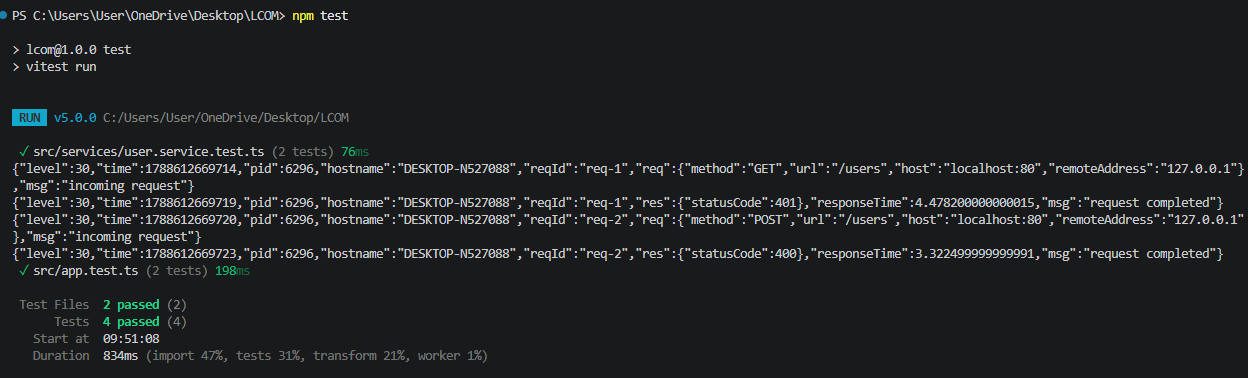
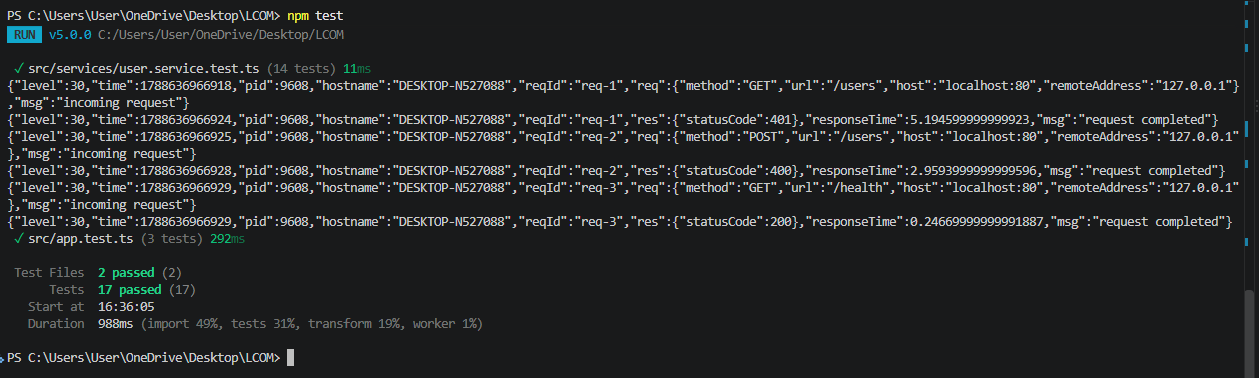
feat: health check, email case insensitive; teste atualizados

Changed region(s): [[0.0, 0.0291, 1.0, 0.9603], [0.9688, 0.7566, 1.0, 1.0]]

diff --git a/src/services/user.service.test.ts b/src/services/user.service.test.ts
@@ -1,4 +1,5 @@
 import { describe, it, expect, vi, beforeEach } from 'vitest';
+import bcrypt from 'bcrypt';
 import { userService } from './user.service';
 import { userRepository } from '../repositories/user.repository';
 
@@ -6,11 +7,10 @@ vi.mock('../repositories/user.repository');
 vi.mock('../repositories/audit.repository', () => ({
   auditRepository: { log: vi.fn() },
 }));
+vi.mock('bcrypt');
 
 describe('userService.create', () => {
-  beforeEach(() => {
-    vi.clearAllMocks();
-  });
+  beforeEach(() => vi.clearAllMocks());
 
   it('lanca erro 409 se o e-mail ja existe', async () => {
     (userRepository.findByEmail as any).mockResolvedValue({ id: '1', email: 'joao@teste.com' });
@@ -22,11 +22,152 @@ describe('userService.create', () => {
 
   it('cria usuario com sucesso quando e-mail nao existe', async () => {
     (userRepository.findByEmail as any).mockResolvedValue(null);
+    (bcrypt.hash as any).mockResolvedValue('hash-fake');
     (userRepository.create as any).mockResolvedValue({ id: '1', name: 'Joao', role: 'USER' });
 
     const user = await userService.create({ name: 'Joao', email: 'joao@teste.com', password: '123456' });
 
     expect(user).toHaveProperty('id');
     expect(userRepository.create).toHaveBeenCalled();
+  });
+
+  it('normaliza o e-mail para minusculo antes de checar duplicidade', async () => {
+    (userRepository.findByEmail as any).mockResolvedValue(null);
+    (bcrypt.hash as any).mockResolvedValue('hash-fake');
+    (userRepository.create as any).mockResolvedValue({ id: '1' });
+
+    await userService.create({ name: 'Joao', email: 'JOAO@TESTE.COM', password: '123456' });
+
+    expect(userRepository.findByEmail).toHaveBeenCalledWith('joao@teste.com');
+    expect(userRepository.create).toHaveBeenCalledWith(
+      expect.objectContaining({ email: 'joao@teste.com' })
+    );
+  });
+});
+
+describe('userService.update', () => {
+  beforeEach(() => vi.clearAllMocks());
+
+  const existingUser = { id: 'user-1', email: 'joao@teste.com', passwordHash: 'hash-antigo', role: 'USER' };
+
+  it('permite o proprio usuario editar seus dados', async () => {
+    (userRepository.findById as any).mockResolvedValue(existingUser);
+    (userRepository.update as any).mockResolvedValue({ ...existingUser, name: 'Novo Nome' });
+
+    const result = await userService.update('user-1', { name: 'Novo Nome' }, { sub: 'user-1', role: 'USER' });
+
+    expect(result.name).toBe('Novo Nome');
+  });
+
+  it('bloqueia usuario comum editando outro usuario (403)', async () => {
+    (userRepository.findById as any).mockResolvedValue(existingUser);
+
+    await expect(
+      userService.update('user-1', { name: 'Hack' }, { sub: 'outro-usuario', role: 'USER' })
+    ).rejects.toMatchObject({ statusCode: 403 });
+  });
+
+  it('permite admin editar outro usuario', async () => {
+    (userRepository.findById as any).mockResolvedValue(existingUser);
+    (userRepository.update as any).mockResolvedValue({ ...existingUser, name: 'Editado pelo admin' });
+
+    const result = await userService.update(
+      'user-1',
+      { name: 'Editado pelo admin' },
+      { sub: 'admin-1', role: 'ADMIN' }
+    );
+
+    expect(result.name).toBe('Editado pelo admin');
+  });
+
+  it('exige senha atual ao trocar a propria senha', async () => {
+    (userRepository.findById as any).mockResolvedValue(existingUser);
+
+    await expect(
+      userService.update('user-1', { password: 'novaSenha123' }, { sub: 'user-1', role: 'USER' })
+    ).rejects.toMatchObject({ statusCode: 400 });
+  });
+
+  it('rejeita senha atual incorreta (401)', async () => {
+    (userRepository.findById as any).mockResolvedValue(existingUser);
+    (bcrypt.compare as any).mockResolvedValue(false);
+
+    await expect(
+      userService.update(
+        'user-1',
+        { password: 'novaSenha123', currentPassword: 'senhaErrada' },
+        { sub: 'user-1', role: 'USER' }
+      )
+    ).rejects.toMatchObject({ statusCode: 401 });
+  });
+
+  it('troca a propria senha com sucesso quando a senha atual bate', async () => {
+    (userRepository.findById as any).mockResolvedValue(existingUser);
+    (bcrypt.compare as any).mockResolvedValue(true);
+    (bcrypt.hash as any).mockResolvedValue('hash-novo');
+    (userRepository.update as any).mockResolvedValue({ ...existingUser, passwordHash: 'hash-novo' });
+
+    await userService.update(
+      'user-1',
+      { password: 'novaSenha123', currentPassword: 'senhaAntiga' },
+      { sub: 'user-1', role: 'USER' }
+    );
+
+    expect(userRepository.update).toHaveBeenCalledWith(
+      'user-1',
+      expect.objectContaining({ passwordHash: 'hash-novo' })
+    );
+  });
+
+  it('admin pode resetar senha de outro usuario sem senha atual', async () => {
+    (userRepository.findById as any).mockResolvedValue(existingUser);
+    (bcrypt.hash as any).mockResolvedValue('hash-resetado');
+    (userRepository.update as any).mockResolvedValue({ ...existingUser, passwordHash: 'hash-resetado' });
+
+    await userService.update('user-1', { password: 'senhaResetada123' }, { sub: 'admin-1', role: 'ADMIN' });
+
+    expect(bcrypt.compare).not.toHaveBeenCalled();
+    expect(userRepository.update).toHaveBeenCalledWith(
+      'user-1',
+      expect.objectContaining({ passwordHash: 'hash-resetado' })
+    );
+  });
+});
+
+describe('userService.updateRole', () => {
+  beforeEach(() => vi.clearAllMocks());
+
+  it('bloqueia rebaixar o admin protegido', async () => {
+    (userRepository.findById as any).mockResolvedValue({ id: 'admin-1', email: 'admin@mocab.com', role: 'ADMIN' });
+
+    await expect(
+      userService.updateRole('admin-1', 'USER' as any, 'outro-admin')
+    ).rejects.toMatchObject({ statusCode: 403 });
+  });
+
+  it('permite mudar role de um usuario comum', async () => {
+    (userRepository.findById as any).mockResolvedValue({ id: 'user-1', email: 'joao@teste.com', role: 'USER' });
+    (userRepository.updateRole as any).mockResolvedValue({ id: 'user-1', role: 'ADMIN' });
+
+    const result = await userService.updateRole('user-1', 'ADMIN' as any, 'admin-1');
+
+    expect(result.role).toBe('ADMIN');
+  });
+});
+
+describe('userService.remove', () => {
+  beforeEach(() => vi.clearAllMocks());
+
+  it('bloqueia excluir o admin protegido', async () => {
+    (userRepository.findById as any).mockResolvedValue({ id: 'admin-1', email: 'admin@mocab.com', role: 'ADMIN' });
+
+    await expect(userService.remove('admin-1', 'outro-admin')).rejects.toMatchObject({ statusCode: 403 });
+  });
+
+  it('permite excluir um usuario comum', async () => {
+    (userRepository.findById as any).mockResolvedValue({ id: 'user-1', email: 'joao@teste.com', role: 'USER' });
+    (userRepository.delete as any).mockResolvedValue(undefined);
+
+    await expect(userService.remove('user-1', 'admin-1')).resolves.not.toThrow();
   });
 });

diff --git a/src/services/user.service.ts b/src/services/user.service.ts
@@ -22,15 +22,16 @@ async function logAuditSafely(
 
 export const userService = {
   async create(data: { name: string; email: string; password: string }) {
-    const existing = await userRepository.findByEmail(data.email);
+    const email = data.email.toLowerCase();
+    const existing = await userRepository.findByEmail(email);
     if (existing) throw new AppError('E-mail já cadastrado', 409);
 
     const passwordHash = await bcrypt.hash(data.password, 10);
     const user = await userRepository.create({
       name: data.name,
-      email: data.email,
+      email,
       passwordHash,
-      role: 'USER', // cadastro público nunca define role — só o seed inicial ou um admin via PATCH /role
+      role: 'USER',
     });
 
     await logAuditSafely(user.id, 'created', user.id);
@@ -62,7 +63,7 @@ async update(
 
   const updateData: { name?: string; email?: string; passwordHash?: string } = {
     name: data.name,
-    email: data.email,
+    email: data.email ? data.email.toLowerCase() : undefined,
   };
 
   if (data.password) {

diff --git a/src/repositories/user.repository.ts b/src/repositories/user.repository.ts
@@ -19,7 +19,7 @@ export const userRepository = {
 
   findById: (id: string) => prisma.user.findUnique({ where: { id } }),
 
-  findByEmail: (email: string) => prisma.user.findUnique({ where: { email } }),
+  findByEmail: (email: string) => prisma.user.findUnique({ where: { email: email.toLowerCase() } }),
 
   update: (id: string, data: { name?: string; email?: string; passwordHash?: string }) =>
     prisma.user.update({ where: { id }, data }),

diff --git a/src/app.test.ts b/src/app.test.ts
@@ -23,4 +23,9 @@ describe('User routes (integracao)', () => {
     });
     expect(response.statusCode).toBe(400);
   });
+  it('retorna 200 no health check', async () => {
+    const response = await app.inject({ method: 'GET', url: '/health' });
+    expect(response.statusCode).toBe(200);
+    expect(JSON.parse(response.body)).toEqual({ status: 'ok' });
+  });
 });

diff --git a/src/app.ts b/src/app.ts
@@ -24,6 +24,7 @@ export function buildApp() {
   });
   app.register(swaggerUI, { routePrefix: '/docs' });
   app.setErrorHandler(errorHandler);
+  app.get('/health', async () => ({ status: 'ok' }));
   app.register(authRoutes, { prefix: '/auth' });
   app.register(userRoutes, { prefix: '/users' });
   app.register(fastifyStatic, {
